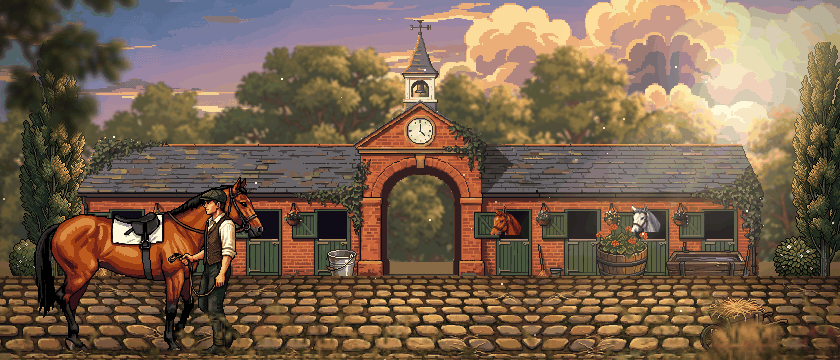
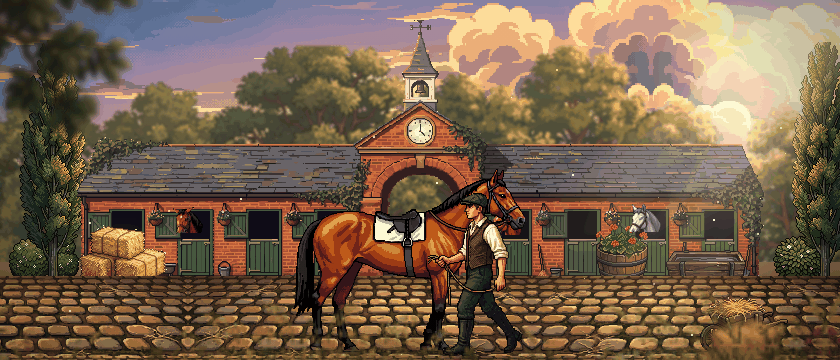
Diorama: live HD-2D scenes in every scene band (Home, Stable, Races...), sky/barn ceiling fixes, QA shots
SceneBand's data-slot="diorama" now renders <DioramaSlot> (one-line swap in the page kit):
stable->yard, barn->barn, grandstand->grandstand, paddock->paddock, poster first, live canvas
when in view. focusY keeps the action in short banners; the sky continues as a flat colour
above its art; the barn gets a dark ceiling for tall phone views; adaptive quality ignores
resume gaps. Screenshots, frame sheets and motion GIFs in docs/brand-v2/diorama/.

Claude-Session: https://claude.ai/code/session_01McmGWjWNQWz9prva7Bfp7H

diff --git a/apps/web/src/components/diorama/engine.ts b/apps/web/src/components/diorama/engine.ts
@@ -170,6 +170,7 @@ export class DioramaEngine {
   private sprites = new Map<Layer, Sprite[]>();
   private overlays: OverlayBaked[] = [];
   private sky: Cnv | null = null;
+  private skyTop = "#000";
   private rays: { a: Cnv; b: Cnv; pad: number; def: RaySet }[] = [];
   private sun: Cnv | null = null;
   private bokeh: Cnv | null = null;
@@ -248,6 +249,18 @@ export class DioramaEngine {
       x.scale(-1, 1);
       x.drawImage(im, 0, 0);
       x.restore();
+      // flat colour that continues the sky upwards (average of its top rows)
+      const d = x.getImageData(0, 0, im.width, 6).data;
+      let r = 0;
+      let g = 0;
+      let b = 0;
+      const n = d.length / 4;
+      for (let i = 0; i < d.length; i += 4) {
+        r += d[i]!;
+        g += d[i + 1]!;
+        b += d[i + 2]!;
+      }
+      this.skyTop = `rgb(${Math.round(r / n)},${Math.round(g / n)},${Math.round(b / n)})`;
     }
     for (const l of s.layers) this.layers.push(this.bakeLayer(l));
     for (const l of s.layers) this.sprites.set(l, (l.anims ?? []).map((a) => this.sprite(a)));
@@ -619,6 +632,7 @@ export class DioramaEngine {
   private track(dt: number, drawMs: number) {
     this.frames++;
     this.lastDrawMs = drawMs;
+    if (dt > 100) return; // resumed after a pause: not a real frame time
     this.frameTimes.push(dt);
     if (this.frameTimes.length > 90) this.frameTimes.shift();
     // adaptive quality: sustained < 40 fps after warm-up -> drop to the light path once
@@ -721,11 +735,19 @@ export class DioramaEngine {
       const sw = this.sky.width;
       const d = 0.04;
       const top = Math.round(sy(s.sky.y - this.sky.height, d));
-      // fill above the sky image with its top row colour
-      if (top > 0) c.drawImage(this.sky, 0, 0, sw, 1, 0, 0, W, top + 1);
       let x0 = (-(s.sky.drift * t) - px * d - this.vx) % sw;
       if (x0 > 0) x0 -= sw;
       for (let x = x0; x * k < W; x += sw) c.drawImage(this.sky, Math.round(x * k), top, sw * k, this.sky.height * k);
+      // the sky continues upwards as a flat colour, feathered into the image's top edge
+      if (top > 0) {
+        c.fillStyle = this.skyTop;
+        c.fillRect(0, 0, W, top);
+        const f = c.createLinearGradient(0, top, 0, top + 40 * k);
+        f.addColorStop(0, this.skyTop);
+        f.addColorStop(1, "rgba(0,0,0,0)");
+        c.fillStyle = f;
+        c.fillRect(0, top, W, 40 * k);
+      }
     }
     // sun glow
     if (this.sun) {

diff --git a/apps/web/src/components/diorama/scenes.ts b/apps/web/src/components/diorama/scenes.ts
@@ -198,7 +198,7 @@ const yard: SceneDef = {
   width: 840,
   height: 360,
   focusX: 420,
-  focusY: 250,
+  focusY: 255,
   scroll: 0,
   sky: { src: "race/sky-clear.png", y: 250, drift: 2.2, top: "#3b6ea8", bottom: "#f3d9a4" },
   fog: "#f1d29a",
@@ -409,7 +409,7 @@ const grandstand: SceneDef = {
   width: 900,
   height: 360,
   focusX: 450,
-  focusY: 250,
+  focusY: 270,
   scroll: 0,
   sky: { src: "race/sky-clear.png", y: 250, drift: 3, top: "#3b6ea8", bottom: "#f3d9a4" },
   fog: "#efd6a2",
@@ -478,9 +478,9 @@ const barn: SceneDef = {
   width: 840,
   height: 360,
   focusX: 420,
-  focusY: 200,
+  focusY: 165,
   scroll: 0,
-  sky: { src: null, y: 0, drift: 0, top: "#2a170c", bottom: "#4a2a14" },
+  sky: { src: null, y: 0, drift: 0, top: "#120904", bottom: "#2a170c" },
   fog: "#3a2010",
   sun: { x: 230, y: 40, r: 160, color: "#ffc970", alpha: 0.45 },
   rays: [
@@ -498,9 +498,10 @@ const barn: SceneDef = {
       blur: 1,
       haze: 0.12,
       bloom: 0.5,
-      y0: -120,
+      y0: -420,
       y1: 222,
-      fills: [{ y0: -120, y1: -60, stops: [[0, "#1d0f07"], [1, "#2a170c"]] }],
+      fills: [{ y0: -420, y1: -60, stops: [[0, "#0e0703"], [0.7, "#1f1008"], [1, "#2a170c"]] }],
+      shade: [{ y0: -70, y1: -20, stops: [[0, "rgba(18,9,4,0.95)"], [1, "rgba(18,9,4,0)"]] }],
       items: [img("diorama/barn-wall.png", -560, 220, { tile: true })],
     },
     {
@@ -548,7 +549,7 @@ const dusk: SceneDef = {
   width: 880,
   height: 360,
   focusX: 440,
-  focusY: 290,
+  focusY: 280,
   scroll: 120,
   sky: { src: "race/sky-dusk.png", y: 250, drift: 1.2, top: "#2b2156", bottom: "#ff9a52" },
   fog: "#d98a6a",

diff --git a/apps/web/src/components/ui/Page.tsx b/apps/web/src/components/ui/Page.tsx
@@ -5,6 +5,7 @@ import type { CSSProperties, ReactNode } from "react";
 import { ART_SLOTS, artUrl } from "@/lib/art";
 import { useArt } from "../pixel/ArtProvider";
 import { PixelIcon, type IconName } from "../icons";
+import { DioramaSlot } from "../diorama/DioramaSlot";
 
 /**
  * Design System v2 page kit (docs/brand-and-design-v2.md §4.5): the scene band at the top of
@@ -58,7 +59,7 @@ export function SceneBand({
   return (
     <section className={`scene-band bleed ${size === "home" ? "" : size === "crop" ? "crop" : "short"}`} data-testid={testId ?? "scene-band"}>
       <div className="absolute inset-0" data-slot="diorama" data-scene={scene}>
-        <SceneArt scene={scene} alt={alt} />
+        <DioramaSlot scene={scene} alt={alt} />
       </div>
       <div className="overlay">
         <div className="mx-auto flex max-w-[75rem] items-end justify-between gap-3 px-[var(--gutter)]">

diff --git a/apps/web/src/components/diorama/DioramaSlot.tsx b/apps/web/src/components/diorama/DioramaSlot.tsx
@@ -1,0 +1,15 @@
+"use client";
+
+import { Diorama } from "./Diorama";
+import type { DioramaSceneId } from "./scenes";
+
+/** Page-kit scene names -> diorama scenes (docs/brand-and-design-v2.md §4.7 rule 6). */
+const FOR_SCENE: Record<string, DioramaSceneId> = { stable: "yard", barn: "barn", grandstand: "grandstand", paddock: "paddock" };
+
+/**
+ * Drop-in for the page kit's `data-slot="diorama"` wrapper (an absolutely positioned box):
+ * the live HD-2D scene, with the static poster shown at once.
+ */
+export function DioramaSlot({ scene, alt, priority = true }: { scene: string; alt: string; priority?: boolean }) {
+  return <Diorama scene={FOR_SCENE[scene] ?? "yard"} label={alt} aspect={null} priority={priority} style={{ position: "absolute", inset: 0, width: "100%", height: "100%" }} />;
+}

diff --git a/apps/web/src/components/diorama/Diorama.tsx b/apps/web/src/components/diorama/Diorama.tsx
@@ -165,7 +165,7 @@ export function Diorama({ scene, className, style, aspect = "21 / 9", motion = "
   }, [def, still, quality]);
 
   const ready = state === "live" || state === "still";
-  const focus = `${Math.round((def.focusX / def.width) * 100)}% 100%`;
+  const focus = `${Math.round((def.focusX / def.width) * 100)}% ${Math.round((def.focusY / def.height) * 100)}%`;
   return (
     <div
       ref={box}

diff --git a/docs/HANDOFF.md b/docs/HANDOFF.md
@@ -7,6 +7,33 @@ Preview URL: https://ranch-game-git-claude-thoroughbred-demo-meowdotfun.vercel.a
 (Vercel project `ranch-game`, team `meowdotfun`; Neon is connected with `DATABASE_URL` for
 Preview and Production.)
 
+## HD-2D dioramas (diorama agent, 2026-10-26)
+
+`<Diorama scene="yard" | "paddock" | "grandstand" | "barn" | "track-dusk" />` in
+`apps/web/src/components/diorama/` (harness: `/dev/diorama`, `?scene=`, `motion=still|live`,
+`quality=low`, `h=<px>`). Live in every page-kit scene band (`SceneBand` → `DioramaSlot`:
+stable→yard, barn→barn, grandstand→grandstand, paddock→paddock), so Home, /stable, /races and
+the Club/Story/Facilities bands are animated.
+
+- **Renderer:** Canvas2D, not three.js (apps/web doesn't depend on three and the lockfile is
+  shared). Layers are baked once (DOF blur, aerial haze, bloom); per frame it is a few
+  drawImages, sprites at integer scale with nearest filtering, rays/motes/grade on top. Picks
+  ~720 art px across (integer device px per art px), splits the scale into backing × CSS
+  upscale to cap the backing store; drops to the light path (art-res backing, no bloom) if it
+  runs < 40 fps. Pauses offscreen and when hidden; still frame under reduced motion; SSR shows
+  the poster `<img>` (`public/art/diorama/poster-*.png`), which also stays if anything fails.
+- **Scenes** are data (`scenes.ts`): layers with depth/blur/haze/bloom, items (y = bottom
+  edge), anims (walkers, grooms, stall heads, flags), rays, motes, grade, `focusY` for short
+  bands. Horses recolour from `race/palette.json` keys (`recolor.ts`).
+- **Art pipeline:** `art-src/diorama/gen-diorama.mjs` (PixelLab jobs) → `process_diorama.py`
+  (clean, mirror-tile, 2:1/3:1 palette-snapped downsamples, holes/props → `atlas.generated.ts`)
+  → `make-posters.mjs` + `finish-posters.py` (needs a dev server) → `register.py` (manifest)
+  → `node apps/web/scripts/art-index.mjs`.
+- Screenshots / motion GIFs: `docs/brand-v2/diorama/`.
+- **Follow-ups:** real-device fps check (headless numbers are software-rendered); more
+  variants (time of day, weather); the track-dusk scene isn't placed on a page yet (good fit
+  for the race page's pre-race or results band).
+
 ## POST TIME rebrand + Design System v2 + horse registry (design agent, 2026-10-26)
 
 User decisions: the game is now **POST TIME** (user-facing everywhere; internal packages stay
